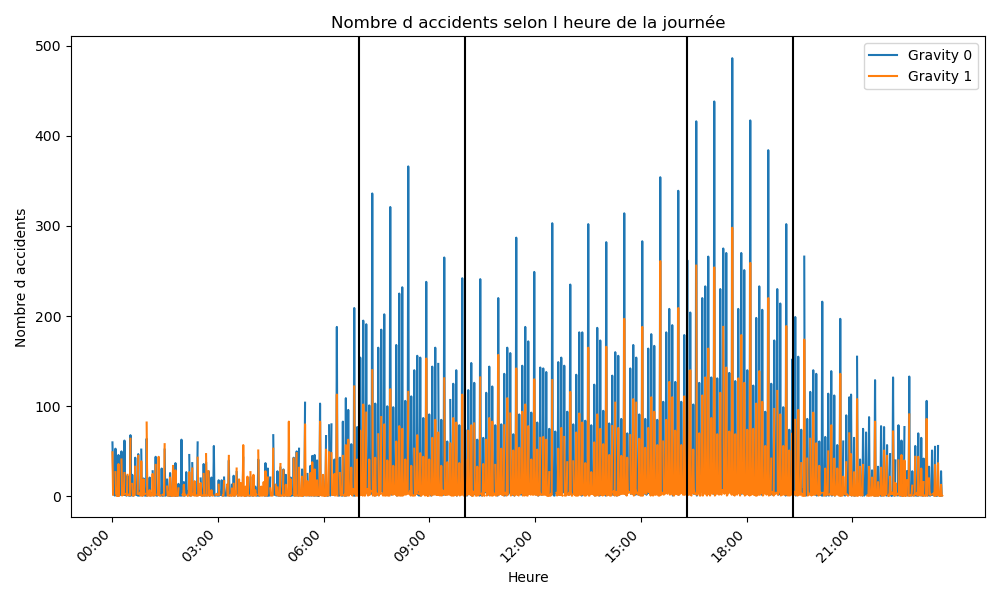
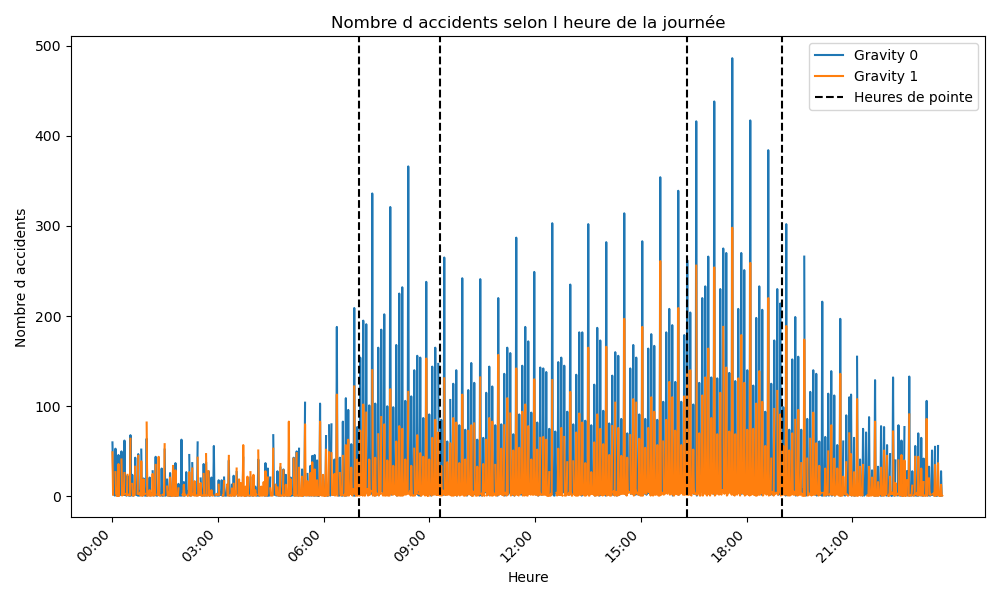
update les graphiques mois et heures

Changed region(s): [[0.775, 0.06, 0.992, 0.84]]

diff --git a/stat_des1/capucine.py b/stat_des1/capucine.py
@@ -96,6 +96,7 @@ plt.show()
 
 import pandas as pd
 import matplotlib.pyplot as plt
+import numpy as np
 
 path = "/home/onyxia/work/statapp_sujet26/"
 file_name1 = "dataset_complet_part_1.csv"
@@ -120,11 +121,20 @@ graph_df = df.groupby(['grav', 'mois']).size().unstack(fill_value=0)
 # Renommer les colonnes pour les étiquettes de l'axe x
 months = ['Janvier', 'Février', 'Mars', 'Avril', 'Mai', 'Juin', 'Juillet', 'Août', 'Septembre', 'Octobre', 'Novembre', 'Décembre']
 graph_df.columns = months
+Y1=np.array(graph_df.iloc[0])
+Y2=np.array(graph_df.iloc[1])
+
+total_accidents = Y1 + Y2
+percentage_gravity_1 = (Y2 / total_accidents) * 100
 
 # Tracer le graphique
 plt.figure(figsize=(10, 6))
-plt.plot(graph_df.columns, graph_df.iloc[0], label='gravité 0', marker='o', linestyle='-')
-plt.plot(graph_df.columns, graph_df.iloc[1], label='gravité 1', marker='o', linestyle='-')
+plt.plot(months, Y1, label='gravité 0', marker='o', linestyle='-')
+plt.plot(months, Y2, label='gravité 1', marker='o', linestyle='-')
+
+# Add annotations
+for i, (y1, y2, month, perc) in enumerate(zip(Y1, Y2, months, percentage_gravity_1)):
+    plt.annotate(f'{perc:.2f}%', (months[i], Y2[i]), textcoords="offset points", xytext=(0, 10), ha='center')
 
 plt.xticks(rotation=45, ha='right')
 plt.ylabel('Nombre d\'accidents')
@@ -179,11 +189,11 @@ plt.title('Nombre d accidents selon l heure de la journée')
 plt.xticks(rotation=45, ha='right')
 num_columns = graph_df.shape[1]
 specific_hours = ['00:00', '03:00', '06:00', '09:00', '12:00', '15:00', '18:00', '21:00']
-plt.axvline(x=700*num_columns/2359, color="black")
-plt.axvline(x=1000*num_columns/2359, color="black")
-plt.axvline(x=1630*num_columns/2359, color="black")
-plt.axvline(x=1930*num_columns/2359, color="black")
-tick_positions = [int(i*300*num_columns/2359)for i in range (8)]
+plt.axvline(x=700*num_columns/2359, color="black", linestyle='--', label='Heures de pointe')
+plt.axvline(x=930*num_columns/2359, color="black", linestyle='--')
+plt.axvline(x=1630*num_columns/2359, color="black", linestyle='--')
+plt.axvline(x=1900*num_columns/2359, color="black", linestyle='--')
+tick_positions = [int(i*300*num_columns/2359) for i in range(8)]
 plt.xticks(tick_positions, specific_hours, rotation=45, ha='right')
 
 
